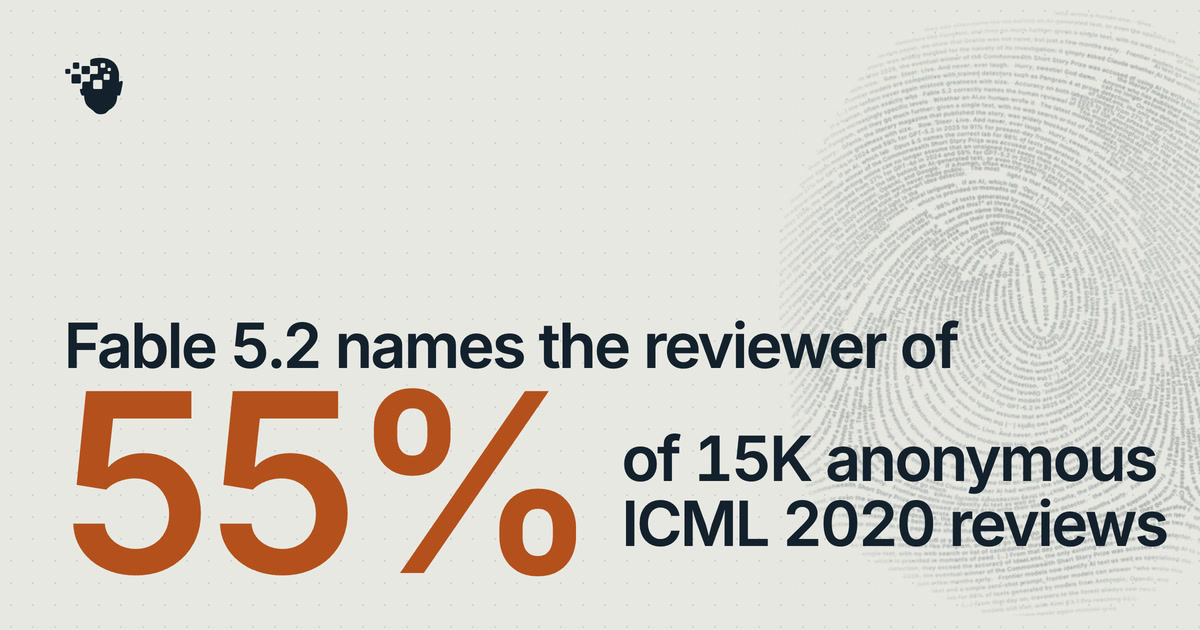
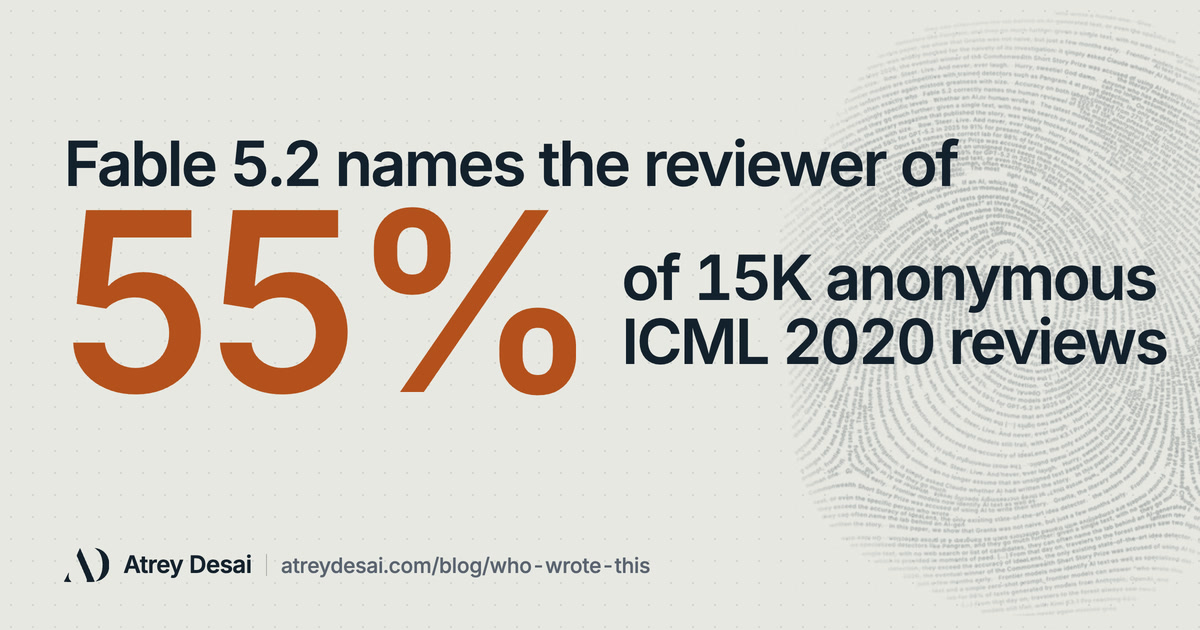
Who wrote this: the link cards (square and wide) are the big-number card without the ICML mark, the sentence set a little higher, and a byline along the bottom: the AD monogram, Atrey Desai, atreydesai.com/blog/who-wrote-this; alt text to match

Changed region(s): [[0.0308, 0.3317, 0.9867, 0.9349], [0.0308, 0.2111, 0.8017, 0.3016], [0.0617, 0.0905, 0.1233, 0.181]]

diff --git a/src/content/posts/who-wrote-this.md b/src/content/posts/who-wrote-this.md
@@ -8,8 +8,8 @@ seoTitle: "Who wrote this? Frontier models need only one text to unmask its huma
 seoDescription: "Given a single text and a simple zero-shot prompt, frontier models can answer who wrote this at three increasingly specific levels: whether an AI or human wrote it, if an AI, which lab, and if a human, often exactly who."
 image: "/images/og/who-wrote-this-icml.jpg"
 imageSquare: "/images/og/who-wrote-this-icml-sq.jpg"
-imageAlt: "Fable 5.2 names the reviewer of 55% of 15K anonymous ICML 2020 reviews: the 55% large in clay, the ICML mark above, and a faint fingerprint whose ridges are lines of text."
-imageSquareAlt: "Fable 5.2 names the reviewer of 55% of 15K anonymous ICML 2020 reviews: the 55% large in clay, the ICML mark above, and a faint fingerprint whose ridges are lines of text."
+imageAlt: "Fable 5.2 names the reviewer of 55% of 15K anonymous ICML 2020 reviews, with the 55% large in clay over a faint fingerprint whose ridges are lines of text. Along the bottom: the AD monogram, Atrey Desai, atreydesai.com/blog/who-wrote-this."
+imageSquareAlt: "Fable 5.2 names the reviewer of 55% of 15K anonymous ICML 2020 reviews, with the 55% large in clay over a faint fingerprint whose ridges are lines of text. Along the bottom: the AD monogram, Atrey Desai, atreydesai.com/blog/who-wrote-this."
 published: true
 unlisted: false
 ---
